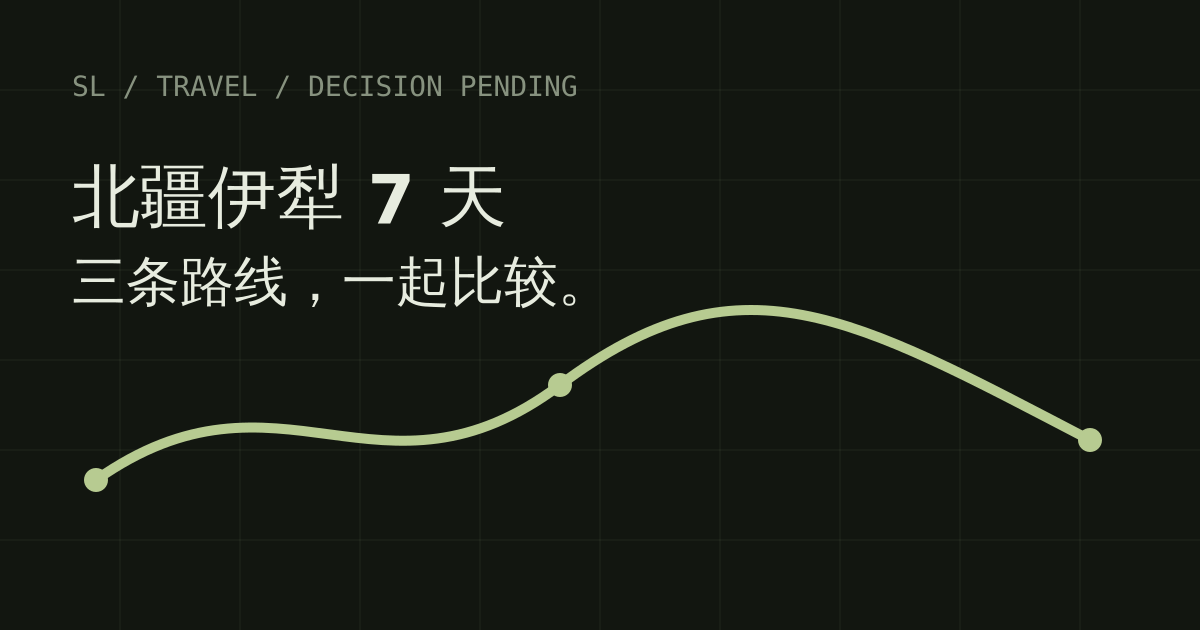
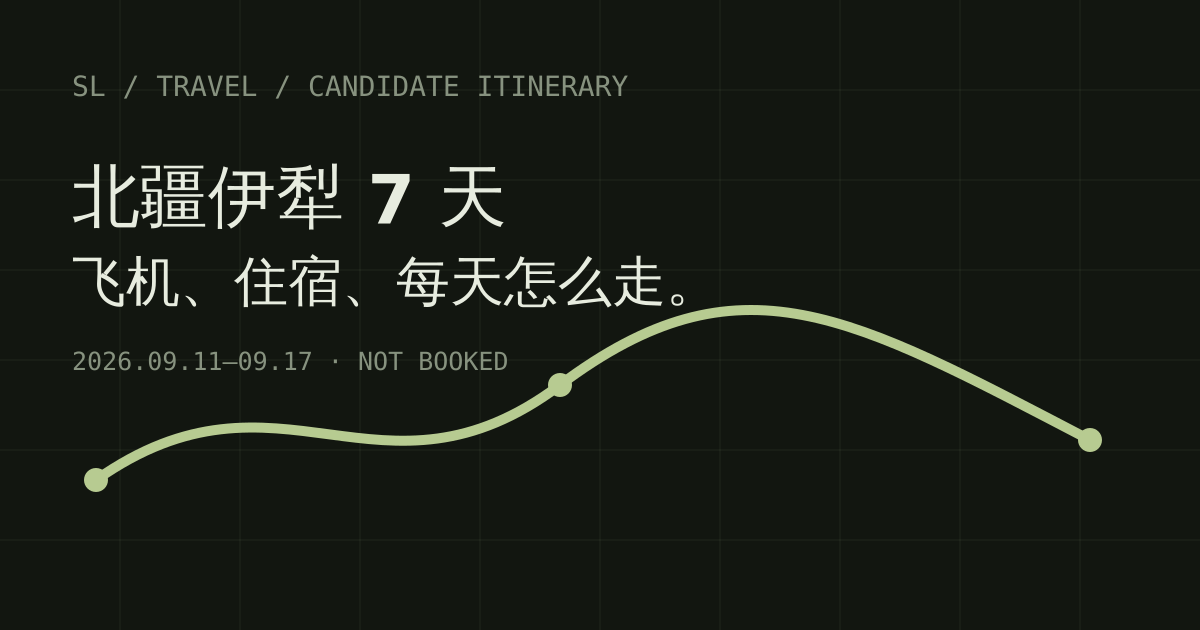
fix: align travel interactions and share preview
Copilot-Session: 82654004-3bdd-4493-b79a-7c1446fe6c2a

diff --git a/site/travel/travel.js b/site/travel/travel.js
@@ -1,27 +1,6 @@
 (function () {
   'use strict';
 
-  var routeMaps = {
-    'route-a': {
-      src: '/travel/assets/route-a.svg',
-      darkSrc: '/travel/assets/route-a-dark.svg',
-      alt: '路线 A：伊宁分别往返大西沟和唐布拉',
-      caption: '路线 A 把长途拆开，但会两次回到伊宁。'
-    },
-    'route-b': {
-      src: '/travel/assets/route-b.svg',
-      darkSrc: '/travel/assets/route-b-dark.svg',
-      alt: '路线 B：伊宁到大西沟，再横穿至唐布拉后返回伊宁',
-      caption: '大西沟到唐布拉约 359 公里，会形成最累的横穿日。'
-    },
-    'route-c': {
-      src: '/travel/assets/route-c.svg',
-      darkSrc: '/travel/assets/route-c-dark.svg',
-      alt: '路线 C：唐布拉为主线，大西沟为条件支线',
-      caption: '大西沟只在秋色确认后增加，主线保持唐布拉深住。'
-    }
-  };
-
   function initThemeControl() {
     var root = document.documentElement;
     var button = document.querySelector('[data-theme-control]');
@@ -57,60 +36,6 @@
     });
   }
 
-  function initRouteControls() {
-    var controls = Array.from(document.querySelectorAll('[data-route-control]'));
-    var lightMap = document.querySelector('[data-route-map][data-theme-variant="light"]');
-    var darkMap = document.querySelector('[data-route-map][data-theme-variant="dark"]');
-    var caption = document.querySelector('[data-route-map-caption]');
-    if (!controls.length || !lightMap || !darkMap || !caption) {
-      return;
-    }
-
-    function selectRoute(routeId, moveFocus) {
-      var route = routeMaps[routeId];
-      if (!route) {
-        return;
-      }
-      controls.forEach(function (control) {
-        var selected = control.getAttribute('data-route-control') === routeId;
-        control.setAttribute('aria-pressed', selected ? 'true' : 'false');
-        control.tabIndex = selected ? 0 : -1;
-        if (selected && moveFocus) {
-          control.focus();
-        }
-      });
-      lightMap.src = route.src;
-      lightMap.alt = route.alt;
-      darkMap.src = route.darkSrc;
-      darkMap.alt = route.alt;
-      caption.textContent = route.caption;
-    }
-
-    controls.forEach(function (control, index) {
-      control.addEventListener('click', function () {
-        selectRoute(control.getAttribute('data-route-control'), false);
-      });
-      control.addEventListener('keydown', function (event) {
-        var targetIndex = index;
-        if (event.key === 'ArrowRight') {
-          targetIndex = (index + 1) % controls.length;
-        } else if (event.key === 'ArrowLeft') {
-          targetIndex = (index - 1 + controls.length) % controls.length;
-        } else if (event.key === 'Home') {
-          targetIndex = 0;
-        } else if (event.key === 'End') {
-          targetIndex = controls.length - 1;
-        } else {
-          return;
-        }
-        event.preventDefault();
-        selectRoute(controls[targetIndex].getAttribute('data-route-control'), true);
-      });
-    });
-
-    selectRoute('route-a', false);
-  }
-
   function initImageFailureState() {
     document.querySelectorAll('.evidence-grid img').forEach(function (image) {
       function markFailed() {
@@ -142,6 +67,5 @@
   }
 
   initThemeControl();
-  initRouteControls();
   initImageFailureState();
 })();